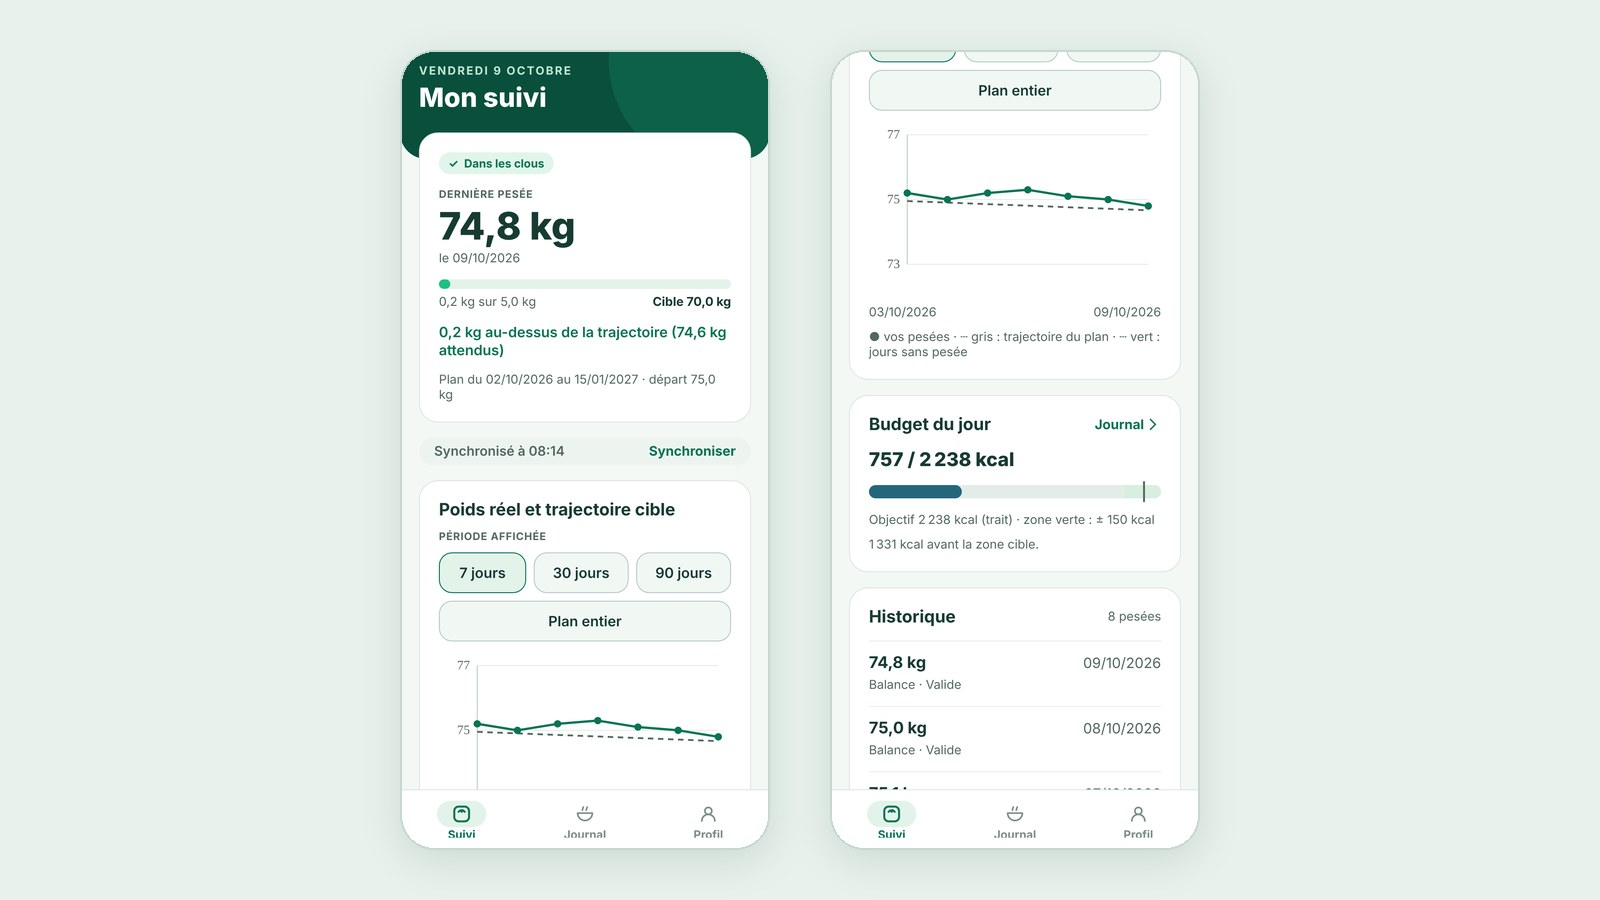
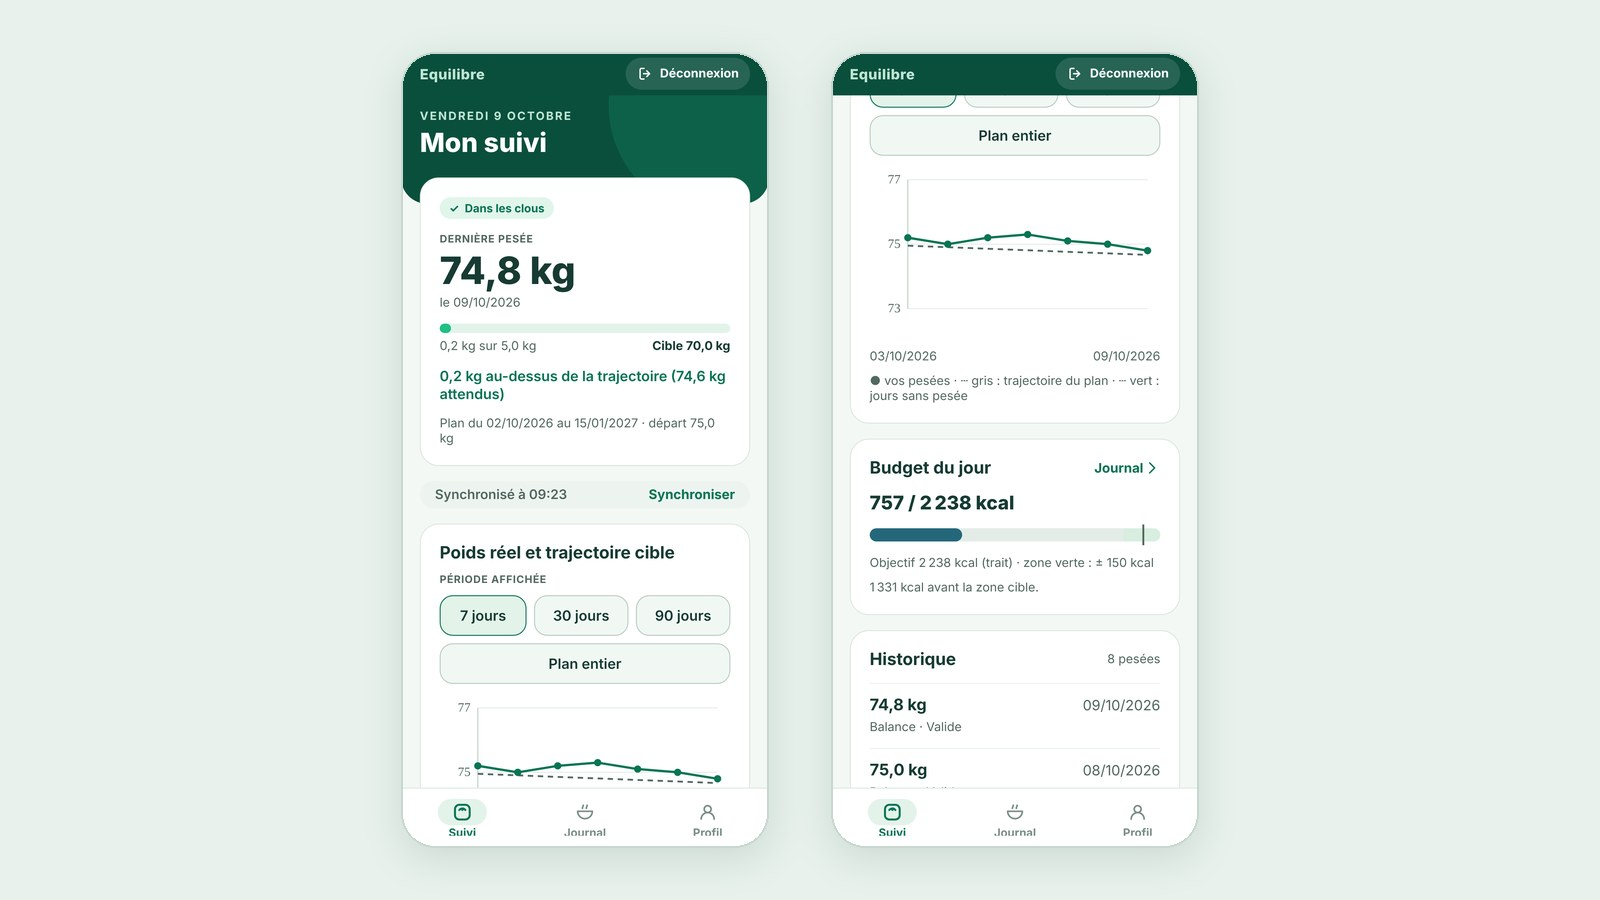
Equilibre : captures a jour (deconnexion visible, fiche coach en onglets)

diff --git a/lib/projects.ts b/lib/projects.ts
@@ -46,7 +46,7 @@ export const projects: Project[] = [
             apk: 'https://equilibre.164-132-246-49.sslip.io/telechargements/equilibre.apk',
         },
         screenshots: [
-            { url: '/images/equilibre-connexion.jpg', title: 'Connexion et profil', description: 'Connexion ou inscription avec le code du coach. Le profil (taille, âge, sexe) sert au calcul du plan et du budget calorique ; déconnexion accessible depuis le bandeau.', titleEn: 'Login and profile', descriptionEn: 'Log in or sign up with the coach’s code. The profile (height, age, sex) feeds the plan and calorie budget; logout is one tap away in the header.' },
+            { url: '/images/equilibre-connexion.jpg', title: 'Connexion et profil', description: 'Connexion ou inscription avec le code du coach. Le profil (taille, âge, sexe) sert au calcul du plan et du budget calorique ; bouton Déconnexion visible en haut de chaque écran.', titleEn: 'Login and profile', descriptionEn: 'Log in or sign up with the coach’s code. The profile (height, age, sex) feeds the plan and calorie budget; a Logout button sits at the top of every screen.' },
             { url: '/images/equilibre-suivi-poids.jpg', title: 'Suivi du poids', description: 'Dernière pesée, avancement vers la cible et écart à la trajectoire en une phrase ; courbe poids réel / trajectoire, budget du jour et historique des pesées de la balance connectée simulée.', titleEn: 'Weight tracking', descriptionEn: 'Latest weigh-in, progress towards the target and the gap to the trajectory in one sentence; actual weight vs. trajectory chart, daily budget and history of readings from the simulated connected scale.' },
             { url: '/images/equilibre-journal.jpg', title: 'Journal alimentaire', description: 'Calories restantes, macros consommées face aux cibles et aliments du jour par repas ; chaque entrée se modifie (quantité, repas) ou se retire. Fonctionne hors ligne, synchronisé avec l’API.', titleEn: 'Food diary', descriptionEn: 'Remaining calories, macros against targets and today’s foods by meal; each entry can be edited (quantity, meal) or removed. Works offline and syncs with the API.' },
             { url: '/images/equilibre-ajout.jpg', title: 'Ajout d’un aliment', description: 'Bibliothèque filtrable (Tous, Récents, Favoris, familles) et feuille d’ajout : portion usuelle pré-remplie, repas présélectionné selon l’heure, calories et budget restant avant validation.', titleEn: 'Adding a food', descriptionEn: 'Filterable library (All, Recents, Favourites, families) and an add sheet: usual portion pre-filled, meal pre-selected by time of day, calories and remaining budget before confirming.' },
